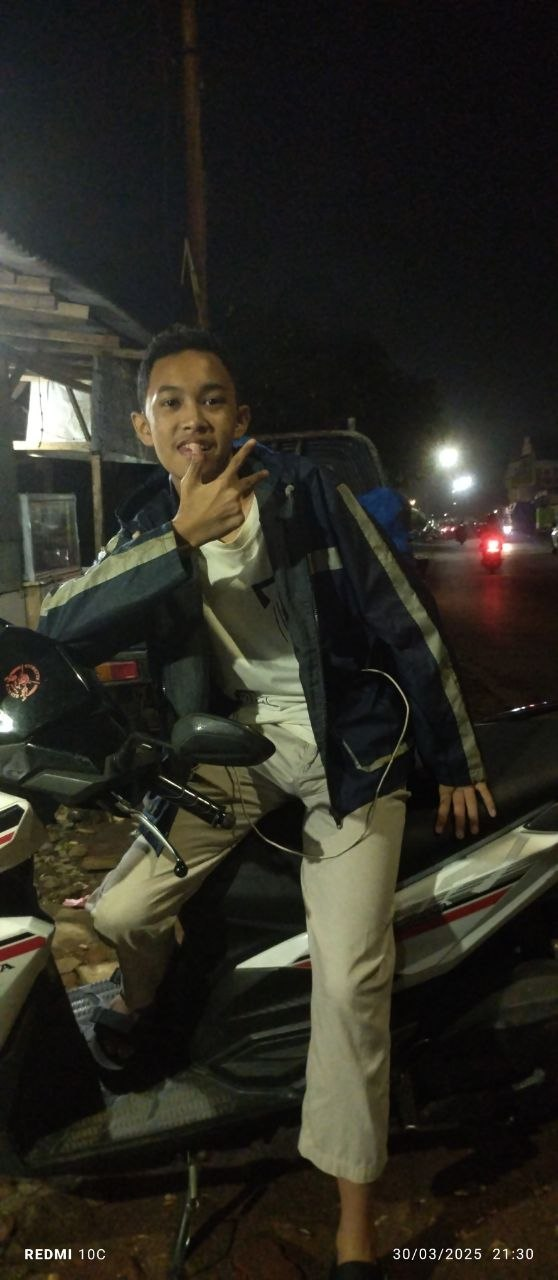
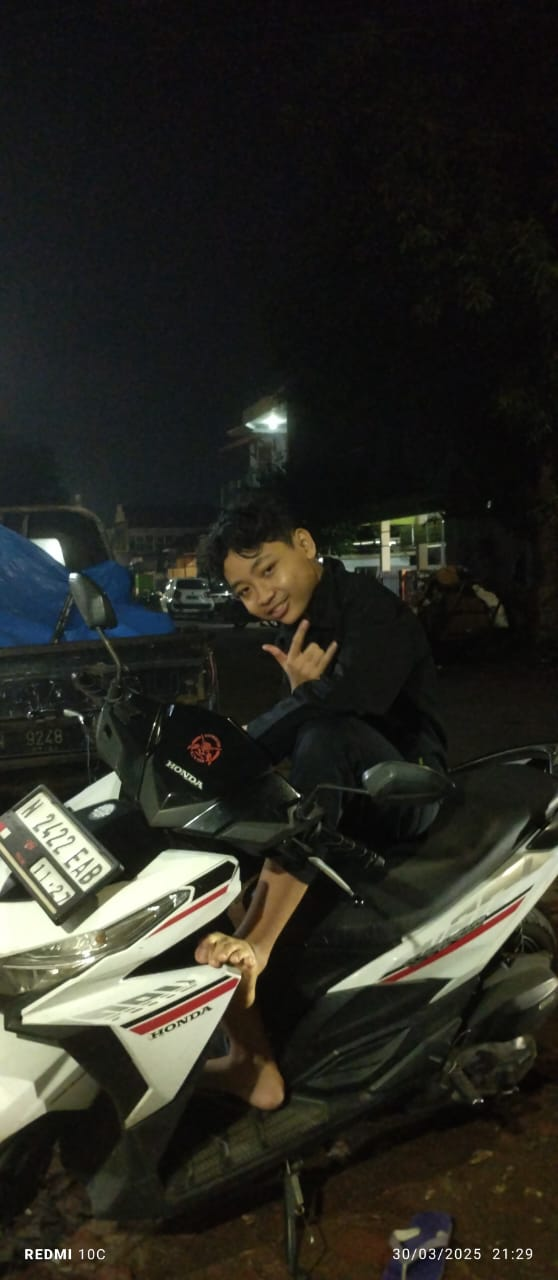
Next JS Izzul

diff --git a/src/app/page.tsx b/src/app/page.tsx
@@ -4,8 +4,8 @@ import SkillCard from "@/components/SkillCard";
 const skills = [
   { nama: "HTML", level: "Menengah" },
   { nama: "CSS", level: "Menengah" },
-  { nama: "Git dan GitHub", level: "Dasar" },
-  { nama: "Desain poster dengan Canva", level: "Mahir" },
+  { nama: "Git dan GitHub", level: "Menengah" },
+  { nama: "Desain poster dengan Canva", level: "Menengah" },
   { nama: "JavaScript", level: "Dasar" }
 ]
 
@@ -26,7 +26,7 @@ export default function Home() {
     <main className="min-h-screen bg-[#eaf5ed] p-6 md:p-12 font-sans text-gray-800">
       <div className="max-w-4xl mx-auto space-y-6">
         <Hero
-          nama="Fathir Azzikri Putra Wibowo"
+          nama="Muhammad izzul Faizin"
           tagline="Siswa kelas X SMK, calon Junior Web Developer di Kelas Industri UBIG"
         />
 
@@ -40,21 +40,23 @@ export default function Home() {
           <div className="grid grid-cols-1 md:grid-cols-2 gap-6">
             <section className="bg-white p-6 rounded-2xl shadow-sm border border-gray-100">
               <h2 className="text-xl font-bold text-gray-900 mb-3">Hobi</h2>
-              <ul className="list-disc list-inside text-sm text-gray-600 space-y-1">
-                <li>Bermain Gitar</li>
-                <li>Bermain Game</li>
-                <li>Membaca Komik</li>
-              </ul>
+              <ol className="list-decimal list-inside text-sm text-gray-600 space-y-1">
+                <li>Bermain game</li>
+                <li>Badminton</li>
+                <li>Menonton film</li>
+                <li>Mendengarkan musik</li>
+              </ol>
             </section>
 
             <section className="bg-white p-6 rounded-2xl shadow-sm border border-gray-100">
               <h2 className="text-xl font-bold text-gray-900 mb-2">Cita-cita</h2>
-              <p className="text-sm text-gray-600 mb-3">
-                Menjadi <strong className="font-semibold text-gray-800">Youtuber atau Vtuber</strong>. Langkah yang saya rencanakan:
-              </p>
-              <ol className="list-decinal list-inside text-sm text-gray-600 space-y-1">
-                <li>Melatih public speaking</li>
-                <li>Mencoba untuk konsisten upload di YouTube</li>
+              <ol className="list-decimal list-inside text-sm text-gray-600 space-y-1">
+                <li>Menuntaskan pendidikan SMK</li>
+                <li>Berhasil membuat project game</li>
+                <li>Menjadi Game Developer</li>
+                <li>Menuntaskan Kelas Industri UBIG</li>
+                <li>Magang di perusahaan teknologi</li>
+                <li>Pergi ke Jepang</li>
               </ol>
             </section>
           </div>

diff --git a/src/components/Hero.tsx b/src/components/Hero.tsx
@@ -5,7 +5,7 @@ export default function Hero({ nama, tagline }) {
         <section className="bg-white p-8 rounded-2xl shadow-sm border border-gray-100 flex flex-col md:flex-row items-center gap-6">
             <div className="w-28 h-28 rounded-full overflow-hidden bg-gray-200 border-2 border-red-500 shrink-0 flex items-center justify-center">
                 <Image
-                    src="/my.jpg"
+                    src="/muhammad-izzul-faizin.jpg"
                     alt={nama}
                     width={128}
                     height={128}

diff --git a/src/app/layout.tsx b/src/app/layout.tsx
@@ -13,8 +13,8 @@ const geistMono = Geist_Mono({
 });
 
 export const metadata: Metadata = {
-  title: "Fathir Azzikri Putra Wibowo | Portofolio",
-  description: "Portofolio Fathir Azzikri Putra Wibowo, siswa SMK calon Junior Web Develpoer di Kelas Industri UBIG",
+  title: "Muhammad izzul Faizin | Portofolio",
+  description: "Portofolio Muhammad izzul Faizin, siswa SMK calon Junior Web Develpoer di Kelas Industri UBIG",
 };
 
 export default function RootLayout({ children }: LayoutProps<"/">) {
